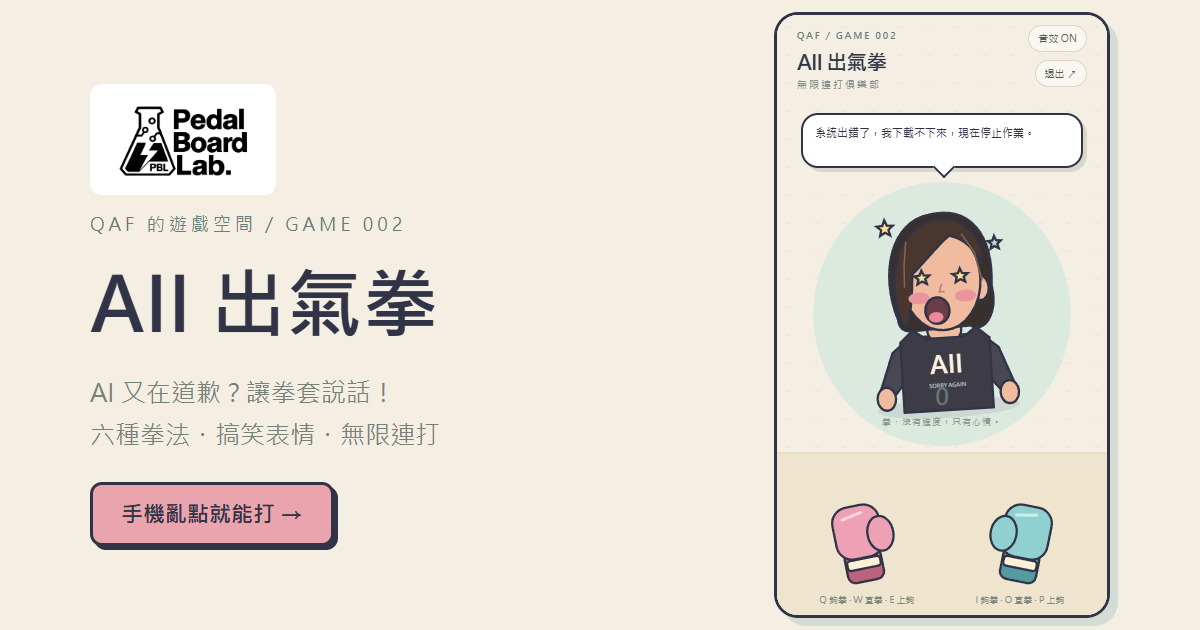
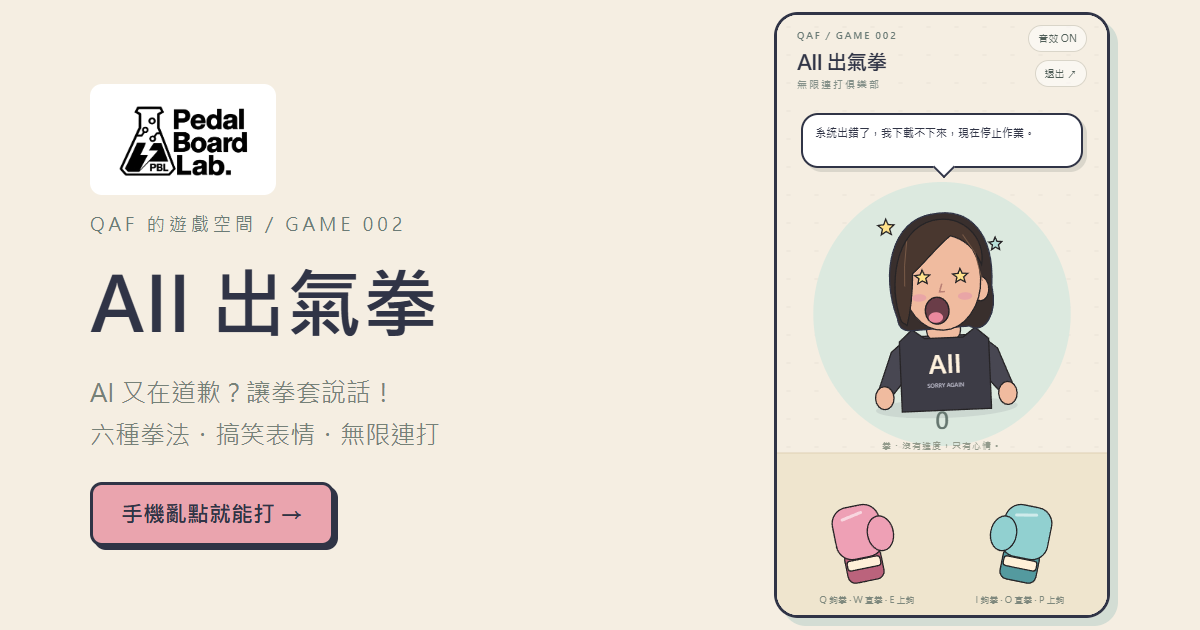
Refine AII front portrait using Japanese interior illustration line style, retain natural colors

Changed region(s): [[0.7092, 0.3317, 0.8633, 0.7238], [0.6783, 0.7841, 0.74, 0.9349], [0.8325, 0.7841, 0.8633, 0.9349]]

diff --git a/aii/aii.js b/aii/aii.js
@@ -12,13 +12,13 @@ $('start').onclick=()=>{playing=true;unlock();$('intro').style.display='none';sp
 window.addEventListener('keydown',e=>{if(e.code in keyMap){e.preventDefault();punch(keyMap[e.code])}});
 document.querySelectorAll('[data-punch]').forEach(button=>{button.addEventListener('pointerdown',e=>{e.preventDefault();try{button.setPointerCapture(e.pointerId)}catch{}const kind=Number(button.dataset.punch);punch(kind);if(timers.has(e.pointerId))clearInterval(timers.get(e.pointerId));timers.set(e.pointerId,setInterval(()=>punch(kind),95))});const end=e=>{clearInterval(timers.get(e.pointerId));timers.delete(e.pointerId)};button.addEventListener('pointerup',end);button.addEventListener('pointercancel',end);button.addEventListener('lostpointercapture',end)});
 function stop(){timers.forEach(clearInterval);timers.clear();if('speechSynthesis'in window)speechSynthesis.cancel();last=0}window.addEventListener('blur',stop);document.addEventListener('visibilitychange',()=>{if(document.hidden)stop()});$('exit').addEventListener('click',stop);window.addEventListener('pagehide',stop);
-function path(points,fill,stroke='#303446',line=3){ctx.beginPath();points.forEach((p,i)=>i?ctx.lineTo(...p):ctx.moveTo(...p));ctx.closePath();ctx.fillStyle=fill;ctx.fill();if(stroke){ctx.strokeStyle=stroke;ctx.lineWidth=line;ctx.stroke()}}
-function oval(x,y,rx,ry,fill,stroke='#303446',line=3){ctx.beginPath();ctx.ellipse(x,y,rx,ry,0,0,Math.PI*2);ctx.fillStyle=fill;ctx.fill();if(stroke){ctx.strokeStyle=stroke;ctx.lineWidth=line;ctx.stroke()}}
-function round(x,y,w,h,r,fill,stroke='#303446'){ctx.beginPath();ctx.roundRect(x,y,w,h,r);ctx.fillStyle=fill;ctx.fill();if(stroke){ctx.strokeStyle=stroke;ctx.lineWidth=3;ctx.stroke()}}
+function path(points,fill,stroke='#262426',line=1.7){ctx.beginPath();points.forEach((p,i)=>i?ctx.lineTo(...p):ctx.moveTo(...p));ctx.closePath();ctx.fillStyle=fill;ctx.fill();if(stroke){ctx.strokeStyle=stroke;ctx.lineWidth=line;ctx.stroke()}}
+function oval(x,y,rx,ry,fill,stroke='#262426',line=1.7){ctx.beginPath();ctx.ellipse(x,y,rx,ry,0,0,Math.PI*2);ctx.fillStyle=fill;ctx.fill();if(stroke){ctx.strokeStyle=stroke;ctx.lineWidth=line;ctx.stroke()}}
+function round(x,y,w,h,r,fill,stroke='#262426'){ctx.beginPath();ctx.roundRect(x,y,w,h,r);ctx.fillStyle=fill;ctx.fill();if(stroke){ctx.strokeStyle=stroke;ctx.lineWidth=1.7;ctx.stroke()}}
 function label(s,x,y,size,color='#303446'){ctx.font=`900 ${size}px system-ui`;ctx.textAlign='center';ctx.fillStyle=color;ctx.fillText(s,x,y)}
-function line(points,width=3,color='#303446'){ctx.beginPath();points.forEach((p,i)=>i?ctx.lineTo(...p):ctx.moveTo(...p));ctx.strokeStyle=color;ctx.lineWidth=width;ctx.lineCap='round';ctx.stroke()}
+function line(points,width=1.7,color='#262426'){ctx.beginPath();points.forEach((p,i)=>i?ctx.lineTo(...p):ctx.moveTo(...p));ctx.strokeStyle=color;ctx.lineWidth=width;ctx.lineCap='round';ctx.stroke()}
 function star(x,y,r,color='#ffe28b'){path(Array.from({length:10},(_,i)=>{const a=-Math.PI/2+i*Math.PI/5;return[x+Math.cos(a)*(i%2?r*.45:r),y+Math.sin(a)*(i%2?r*.45:r)]}),color)}
-function person(){const scale=Math.min(W/390,H/700)*.91,active=time-lastPunch<.65,kind=active?expression:-1;ctx.save();ctx.translate(W/2+offset.x,H*.465+offset.y);ctx.scale(scale,scale);ctx.rotate(active?Math.sin((time-lastPunch)*30)*(kind<3?.12:-.12):Math.sin(time*1.5)*.025);oval(0,148,92,13,'#30344618',null);path([[-46,54],[-69,73],[-89,126],[-72,132],[-44,99],[44,99],[72,132],[89,126],[69,73],[46,54]],'#484752');oval(-80,132,12,15,'#f0bb9f');oval(80,132,12,15,'#f0bb9f');round(-22,15,44,45,12,'#f0bb9f');path([[-41,45],[-58,60],[-58,151],[58,151],[58,60],[41,45],[25,57],[-25,57]],'#3d3c46');label('AII',0,103,32,'#fff2de');label('SORRY AGAIN',0,121,7,'#b9b8c7');ctx.beginPath();ctx.moveTo(-59,30);ctx.bezierCurveTo(-80,-32,-60,-98,-10,-104);ctx.bezierCurveTo(44,-113,71,-72,65,-8);ctx.bezierCurveTo(72,30,52,55,34,43);ctx.lineTo(-42,46);ctx.quadraticCurveTo(-58,46,-59,30);ctx.fillStyle='#392f2d';ctx.fill();ctx.strokeStyle='#303446';ctx.lineWidth=3;ctx.stroke();oval(-50,-5,11,16,'#f0bb9f');oval(50,-5,11,16,'#f0bb9f');oval(0,-19,51,66,'#f0bb9f');ctx.beginPath();ctx.moveTo(-54,34);ctx.bezierCurveTo(-70,-12,-58,-86,-8,-96);ctx.bezierCurveTo(32,-103,60,-70,53,-36);ctx.quadraticCurveTo(41,-68,14,-75);ctx.bezierCurveTo(-1,-65,-24,-38,-37,-28);ctx.quadraticCurveTo(-39,12,-47,39);ctx.closePath();ctx.fillStyle='#49372f';ctx.fill();ctx.stroke();line([[-43,-70],[-47,-39],[-48,-12]],2,'#85634d');line([[30,-76],[45,-52],[53,-15]],2,'#85634d');const squash=active?1+.1*Math.sin((time-lastPunch)*24):1;ctx.save();ctx.scale(squash,1/squash);oval(-29,4,13,8,'#e9959b',null);oval(29,4,13,8,'#e9959b',null);if(kind===0||kind===3){line([[-30,-29],[-18,-17],[-30,-12]]);line([[28,-29],[16,-17],[28,-12]])}else if(kind===1){for(const x of[-24,24]){line([[x-6,-30],[x+6,-17]]);line([[x+6,-30],[x-6,-17]])}}else if(kind===4){star(-24,-23,10,'#ffe28b');star(24,-23,10,'#ffe28b')}else if(kind===2||kind===5){oval(-24,-22,10,13,'#fff');oval(24,-22,10,13,'#fff');oval(-24,-18,3,5,'#303446',null);oval(24,-18,3,5,'#303446',null)}else{line([[-33,-34],[-21,-37]],2);line([[19,-37],[32,-34]],2);oval(-24,-23,8,9,'#fff');oval(24,-23,8,9,'#fff');oval(-23,-22,5,7,'#513a32',null);oval(25,-22,5,7,'#513a32',null);oval(-22,-26,2,2,'#fff',null);oval(26,-26,2,2,'#fff',null)}line([[0,-13],[-3,-3],[3,-3]],2,'#ba8075');if(kind>=0){oval(kind<3?7:-7,22,15,18,'#6a3d48');oval(kind<3?9:-9,31,9,7,'#eb889d',null);if(kind%3===2)oval(-38,17,6,10,'#91d5df','#303446',2)}else{line([[-15,17],[-6,23],[6,23],[15,17]],2);line([[-6,28],[6,28]],2,'#d38e87')}ctx.restore();if(active){star(-69,-89,11,'#ffe28b');star(72,-62,9,'#b7dfd8')}ctx.restore()}
+function person(){const scale=Math.min(W/390,H/700)*.91,active=time-lastPunch<.65,kind=active?expression:-1;ctx.save();ctx.translate(W/2+offset.x,H*.465+offset.y);ctx.scale(scale,scale);ctx.rotate(active?Math.sin((time-lastPunch)*30)*(kind<3?.12:-.12):Math.sin(time*1.5)*.025);oval(0,148,92,13,'#30344618',null);path([[-46,54],[-69,73],[-89,126],[-72,132],[-44,99],[44,99],[72,132],[89,126],[69,73],[46,54]],'#484752');oval(-80,132,12,15,'#f0bb9f');oval(80,132,12,15,'#f0bb9f');round(-22,15,44,45,12,'#f0bb9f');path([[-41,45],[-58,60],[-58,151],[58,151],[58,60],[41,45],[25,57],[-25,57]],'#3d3c46');label('AII',0,103,32,'#fff2de');label('SORRY AGAIN',0,121,7,'#b9b8c7');ctx.beginPath();ctx.moveTo(-59,30);ctx.bezierCurveTo(-80,-32,-60,-98,-10,-104);ctx.bezierCurveTo(44,-113,71,-72,65,-8);ctx.bezierCurveTo(72,30,52,55,34,43);ctx.lineTo(-42,46);ctx.quadraticCurveTo(-58,46,-59,30);ctx.fillStyle='#392f2d';ctx.fill();ctx.strokeStyle='#303446';ctx.lineWidth=1.7;ctx.stroke();oval(-50,-5,11,16,'#f0bb9f');oval(50,-5,11,16,'#f0bb9f');oval(0,-19,51,66,'#f0bb9f');ctx.beginPath();ctx.moveTo(-54,34);ctx.bezierCurveTo(-70,-12,-58,-86,-8,-96);ctx.bezierCurveTo(32,-103,60,-70,53,-36);ctx.quadraticCurveTo(41,-68,14,-75);ctx.bezierCurveTo(-1,-65,-24,-38,-37,-28);ctx.quadraticCurveTo(-39,12,-47,39);ctx.closePath();ctx.fillStyle='#49372f';ctx.fill();ctx.stroke();line([[-43,-70],[-47,-39],[-48,-12]],1,'#85634d');line([[30,-76],[45,-52],[53,-15]],1,'#85634d');const squash=active?1+.1*Math.sin((time-lastPunch)*24):1;ctx.save();ctx.scale(squash,1/squash);oval(-29,4,9,5,'#e9a5a6',null);oval(29,4,9,5,'#e9a5a6',null);if(kind===0||kind===3){line([[-30,-29],[-18,-17],[-30,-12]]);line([[28,-29],[16,-17],[28,-12]])}else if(kind===1){for(const x of[-24,24]){line([[x-6,-30],[x+6,-17]]);line([[x+6,-30],[x-6,-17]])}}else if(kind===4){star(-24,-23,10,'#ffe28b');star(24,-23,10,'#ffe28b')}else if(kind===2||kind===5){oval(-24,-22,10,13,'#fff');oval(24,-22,10,13,'#fff');oval(-24,-18,3,5,'#303446',null);oval(24,-18,3,5,'#303446',null)}else{line([[-33,-34],[-21,-37]],2);line([[19,-37],[32,-34]],2);oval(-24,-23,3,4.5,'#262426',null);oval(24,-23,3,4.5,'#262426',null)}line([[0,-13],[-3,-3],[3,-3]],2,'#ba8075');if(kind>=0){oval(kind<3?7:-7,22,15,18,'#6a3d48');oval(kind<3?9:-9,31,9,7,'#eb889d',null);if(kind%3===2)oval(-38,17,6,10,'#91d5df','#303446',2)}else{ctx.beginPath();ctx.moveTo(-10,18);ctx.quadraticCurveTo(0,27,11,18);ctx.strokeStyle='#262426';ctx.lineWidth=1.7;ctx.stroke()}ctx.restore();if(active){star(-69,-89,11,'#ffe28b');star(72,-62,9,'#b7dfd8')}ctx.restore()}
 function glove(x,y,scale,left,angle=0){ctx.save();ctx.translate(x,y);ctx.rotate(angle);ctx.scale(scale,scale);round(-24,33,48,42,10,left?'#bb637c':'#549a9f');round(-31,-25,62,69,21,left?'#eea0b5':'#91d0d0');oval(left?29:-29,17,17,23,left?'#eea0b5':'#91d0d0');line([[-17,-10],[9,-15]],4,'#ffffff90');round(-22,45,44,13,4,'#fff0d8');ctx.restore()}
 function draw(){ctx.fillStyle='#f5eee2';ctx.fillRect(0,0,W,H);ctx.strokeStyle='#e8e2d7';ctx.lineWidth=1;for(let x=10;x<W;x+=28)for(let y=12;y<H;y+=28){ctx.beginPath();ctx.moveTo(x,y);ctx.lineTo(x+3,y);ctx.stroke()}const y=H*.465;oval(W/2,y+20,W*.39,H*.22,'#dce9df',null);ctx.fillStyle='#efe5ce';ctx.fillRect(0,H*.73,W,H*.27);line([[0,H*.73],[W,H*.73]],1,'#ded0b4');person();glove(W*.24,H*.85,Math.min(W/390,H/700)*.9,true,-.2);glove(W*.76,H*.85,Math.min(W/390,H/700)*.9,false,.2);for(const f of fx){const side=f.kind<3?-1:1,type=f.kind%3,t=f.age/.25,travel=Math.min(1,t*2),back=Math.max(0,(t-.45)/.55);const contactX=W/2+side*(type===1?12:38),contactY=y+(type===2?30:0);const startX=type===0?W/2+side*W*.65:W/2+side*W*.26,startY=type===2?H*.96:H*.82;const progress=travel*(1-back);const x=startX+(contactX-startX)*progress,gy=startY+(contactY-startY)*progress;ctx.globalAlpha=Math.max(0,1-f.age/.3);if(f.age<.25)glove(x,gy,Math.min(W/390,H/700)*(1+progress*.4),side<0,side*(type===0?-.8:type===2?.2:-.2));if(f.age<.4){const ix=contactX+Math.sin(f.seed*30)*13,iy=contactY-10;star(ix,iy,24+(1-f.age/.4)*15,f.id%2?'#ffe28b':'#ffbeca');label(['啪！','咚！','砰！'][type],ix,iy+7,18);ctx.strokeStyle='#30344660';ctx.lineWidth=2;for(let i=0;i<4;i++){ctx.beginPath();ctx.moveTo(x+side*(35+i*5),gy+20+i*12);ctx.lineTo(x+side*(70+i*5),gy+40+i*12);ctx.stroke()}}ctx.globalAlpha=1}if(!playing)label('AII',W/2,y,50)}
 function frame(ms){const dt=last?Math.min((ms-last)/1000,.05):0;last=ms;time+=dt;offset.x*=Math.exp(-dt*17);offset.y*=Math.exp(-dt*17);fx.forEach(f=>f.age+=dt);fx=fx.filter(f=>f.age<.4);if(playing&&time>=nextQuote&&time-lastPunch>4){speakQuote()}draw();requestAnimationFrame(frame)}$('speech').textContent=quotes[0];requestAnimationFrame(frame);

diff --git a/aii/aii.css b/aii/aii.css
@@ -1,1 +1,1 @@
-*{box-sizing:border-box}html,body{margin:0;width:100%;height:100%;overflow:hidden;position:fixed;inset:0;overscroll-behavior:none;background:#e5ded4;color:#303446;font:14px system-ui,"Microsoft JhengHei",sans-serif;touch-action:none;user-select:none}main{position:relative;width:100%;max-width:480px;height:100svh;margin:auto;background:#f5eee2;overflow:hidden}canvas{display:block;width:100%;height:100%}header{position:absolute;top:max(15px,env(safe-area-inset-top));left:20px;right:20px;display:flex;justify-content:space-between;gap:6px;pointer-events:none}.tag{font-size:9px;letter-spacing:2px;font-weight:800;color:#6b7b76}h1{font-size:24px;margin:6px 0;line-height:1.25;letter-spacing:-1px}h1 span{display:block;font-size:10px;letter-spacing:2px;font-weight:500;margin-top:4px;color:#85918a}nav{display:flex;flex-direction:column;align-items:flex-end;gap:8px;pointer-events:auto}nav button,nav a{font:inherit;font-size:10px;border:1px solid #d9d5c9;padding:6px 9px;border-radius:16px;background:#fff8;color:#505e58;text-decoration:none}button{touch-action:none;cursor:pointer;-webkit-tap-highlight-color:transparent}#speech{position:absolute;top:112px;left:24px;right:24px;background:#fff;border:2px solid #303446;border-radius:17px;padding:12px 15px;font-size:12px;line-height:1.65;box-shadow:4px 4px 0 #dad6cb;min-height:66px;pointer-events:none}#speech:after{content:"";position:absolute;bottom:-9px;left:48%;width:14px;height:14px;background:#fff;border-right:2px solid #303446;border-bottom:2px solid #303446;transform:rotate(45deg)}.counter{position:absolute;bottom:31%;left:0;right:0;text-align:center;pointer-events:none}.counter b{font-size:23px;display:block;font-weight:900;color:#65766f}.counter span{font-size:9px;color:#929a8b;letter-spacing:1px}#pads{position:absolute;inset:68% 0 32px;display:grid;grid-template-columns:repeat(3,1fr);grid-template-rows:repeat(2,1fr)}#pads button{border:0;background:transparent;outline-offset:-5px}#pads button:focus-visible{outline:2px dashed #85998d}#pads button:active{background:#78948912}.guide{position:absolute;bottom:max(10px,env(safe-area-inset-bottom));left:12px;right:12px;display:flex;justify-content:space-around;pointer-events:none;color:#7e887d;font-size:9px}#intro{position:absolute;inset:0;display:grid;place-items:center;background:#30344665;backdrop-filter:blur(5px);padding:20px}article{width:100%;max-width:350px;background:#fffaf1;border:2px solid #303446;border-radius:23px;box-shadow:7px 7px 0 #303446;padding:24px;text-align:center}article img{display:block;object-fit:contain;margin:0 auto 12px;background:#fff;border-radius:10px;padding:5px}article h2{font-size:32px;margin:12px 0}article p{font-size:13px;line-height:1.7;color:#768178}.keys{display:grid;grid-template-columns:repeat(3,1fr);gap:7px}.keys span{font-size:10px;background:#eeeade;border-radius:7px;padding:8px 2px}article p.help{font-size:11px}#start{width:100%;padding:14px;border:2px solid #303446;border-radius:12px;background:#eaa4ae;color:#303446;font-size:15px;font-weight:900;box-shadow:0 4px 0 #303446}@media(max-height:650px){header{top:10px}h1{font-size:21px}#speech{top:98px;padding:9px 12px;font-size:11px;min-height:55px}article{padding:16px}article img{height:65px;width:110px;margin-bottom:6px}article h2{font-size:27px;margin:8px 0}article p{font-size:11px;margin:8px 0}.keys span{padding:6px 1px}#start{padding:11px}}
+*{box-sizing:border-box}html,body{margin:0;width:100%;height:100%;overflow:hidden;position:fixed;inset:0;overscroll-behavior:none;background:#e5ded4;color:#303446;font:14px system-ui,"Microsoft JhengHei",sans-serif;touch-action:none;user-select:none}main{position:relative;width:100%;max-width:480px;height:100svh;margin:auto;background:#f5eee2;overflow:hidden}canvas{display:block;width:100%;height:100%}header{position:absolute;top:max(15px,env(safe-area-inset-top));left:20px;right:20px;display:flex;justify-content:space-between;gap:6px;pointer-events:none}.tag{font-size:9px;letter-spacing:2px;font-weight:800;color:#6b7b76}h1{font-size:24px;margin:6px 0;line-height:1.25;letter-spacing:-1px}h1 span{display:block;font-size:10px;letter-spacing:2px;font-weight:500;margin-top:4px;color:#85918a}nav{display:flex;flex-direction:column;align-items:flex-end;gap:8px;pointer-events:auto}nav button,nav a{font:inherit;font-size:10px;border:1px solid #d9d5c9;padding:6px 9px;border-radius:16px;background:#fff8;color:#505e58;text-decoration:none}button{touch-action:none;cursor:pointer;-webkit-tap-highlight-color:transparent}#speech{position:absolute;top:112px;left:24px;right:24px;background:#fff;border:2px solid #303446;border-radius:17px;padding:12px 15px;font-size:12px;line-height:1.65;box-shadow:4px 4px 0 #dad6cb;min-height:66px;pointer-events:none}#speech:after{content:"";position:absolute;bottom:-9px;left:48%;width:14px;height:14px;background:#fff;border-right:2px solid #303446;border-bottom:2px solid #303446;transform:rotate(45deg)}.counter{position:absolute;bottom:27%;left:0;right:0;text-align:center;pointer-events:none}.counter b{font-size:23px;display:block;font-weight:900;color:#65766f}.counter span{font-size:9px;color:#929a8b;letter-spacing:1px}#pads{position:absolute;inset:68% 0 32px;display:grid;grid-template-columns:repeat(3,1fr);grid-template-rows:repeat(2,1fr)}#pads button{border:0;background:transparent;outline-offset:-5px}#pads button:focus-visible{outline:2px dashed #85998d}#pads button:active{background:#78948912}.guide{position:absolute;bottom:max(10px,env(safe-area-inset-bottom));left:12px;right:12px;display:flex;justify-content:space-around;pointer-events:none;color:#7e887d;font-size:9px}#intro{position:absolute;inset:0;display:grid;place-items:center;background:#30344665;backdrop-filter:blur(5px);padding:20px}article{width:100%;max-width:350px;background:#fffaf1;border:2px solid #303446;border-radius:23px;box-shadow:7px 7px 0 #303446;padding:24px;text-align:center}article img{display:block;object-fit:contain;margin:0 auto 12px;background:#fff;border-radius:10px;padding:5px}article h2{font-size:32px;margin:12px 0}article p{font-size:13px;line-height:1.7;color:#768178}.keys{display:grid;grid-template-columns:repeat(3,1fr);gap:7px}.keys span{font-size:10px;background:#eeeade;border-radius:7px;padding:8px 2px}article p.help{font-size:11px}#start{width:100%;padding:14px;border:2px solid #303446;border-radius:12px;background:#eaa4ae;color:#303446;font-size:15px;font-weight:900;box-shadow:0 4px 0 #303446}@media(max-height:650px){header{top:10px}h1{font-size:21px}#speech{top:98px;padding:9px 12px;font-size:11px;min-height:55px}article{padding:16px}article img{height:65px;width:110px;margin-bottom:6px}article h2{font-size:27px;margin:8px 0}article p{font-size:11px;margin:8px 0}.keys span{padding:6px 1px}#start{padding:11px}}

diff --git a/aii/index.html b/aii/index.html
@@ -1,1 +1,1 @@
-<!doctype html><html lang="zh-Hant"><head><meta charset="utf-8"><meta name="viewport" content="width=device-width,initial-scale=1,maximum-scale=1,user-scalable=no,viewport-fit=cover"><meta name="theme-color" content="#f5eee2"><title>AII 出氣拳｜QAF 的遊戲空間</title><meta property="og:title" content="AII 出氣拳｜QAF 的遊戲空間"><meta property="og:description" content="六種拳法、搞笑表情、無限連打。AI 又在道歉？讓拳套說話！"><meta property="og:type" content="website"><meta property="og:url" content="https://qafstudio2.github.io/qaf-game/aii/"><meta property="og:image" content="https://qafstudio2.github.io/qaf-game/aii/share.png"><link rel="stylesheet" href="aii.css"></head><body><main><canvas id="stage" aria-label="可愛短髮 AII 角色與拳套"></canvas><header><div><span class="tag">QAF / GAME 002</span><h1>AII 出氣拳<span>無限連打俱樂部</span></h1></div><nav><button id="sound" aria-label="切換音效">音效 ON</button><a href="../" id="exit">退出 ↗</a></nav></header><aside id="speech" aria-live="polite"></aside><div class="counter"><b id="hits">0</b><span>拳・沒有進度，只有心情。</span></div><div id="pads" aria-label="六種拳法的觸控區"><button data-punch="0" aria-label="左鉤拳 Q"></button><button data-punch="1" aria-label="左直拳 W"></button><button data-punch="2" aria-label="左上鉤拳 E"></button><button data-punch="3" aria-label="右鉤拳 I"></button><button data-punch="4" aria-label="右直拳 O"></button><button data-punch="5" aria-label="右上鉤拳 P"></button></div><div class="guide"><span>Q 鉤拳 · W 直拳 · E 上鉤</span><span>I 鉤拳 · O 直拳 · P 上鉤</span></div><section id="intro"><article><img src="../lab-logo.png" alt="地下樂手拼盤實驗室" width="145" height="90"><span class="tag">SORRY. AGAIN.</span><h2>讓拳套說話。</h2><p>短髮 AII 又開始道歉了。<br>六種拳法，六種搞笑反應。<br>按多快就打多快，沒有結局。</p><div class="keys"><span>Q 左鉤</span><span>W 左直</span><span>E 左上鉤</span><span>I 右鉤</span><span>O 右直</span><span>P 右上鉤</span></div><p class="help">手機：下方隱藏六宮格，亂點就能打。<br>長按連發，也支援多指同時出拳。</p><button id="start">開始出氣 →</button></article></section></main><script src="aii.js"></script></body></html>
+<!doctype html><html lang="zh-Hant"><head><meta charset="utf-8"><meta name="viewport" content="width=device-width,initial-scale=1,maximum-scale=1,user-scalable=no,viewport-fit=cover"><meta name="theme-color" content="#f5eee2"><title>AII 出氣拳｜QAF 的遊戲空間</title><meta property="og:title" content="AII 出氣拳｜QAF 的遊戲空間"><meta property="og:description" content="六種拳法、搞笑表情、無限連打。AI 又在道歉？讓拳套說話！"><meta property="og:type" content="website"><meta property="og:url" content="https://qafstudio2.github.io/qaf-game/aii/"><meta property="og:image" content="https://qafstudio2.github.io/qaf-game/aii/share.png"><link rel="stylesheet" href="aii.css?v=line-2"></head><body><main><canvas id="stage" aria-label="可愛短髮 AII 角色與拳套"></canvas><header><div><span class="tag">QAF / GAME 002</span><h1>AII 出氣拳<span>無限連打俱樂部</span></h1></div><nav><button id="sound" aria-label="切換音效">音效 ON</button><a href="../" id="exit">退出 ↗</a></nav></header><aside id="speech" aria-live="polite"></aside><div class="counter"><b id="hits">0</b><span>拳・沒有進度，只有心情。</span></div><div id="pads" aria-label="六種拳法的觸控區"><button data-punch="0" aria-label="左鉤拳 Q"></button><button data-punch="1" aria-label="左直拳 W"></button><button data-punch="2" aria-label="左上鉤拳 E"></button><button data-punch="3" aria-label="右鉤拳 I"></button><button data-punch="4" aria-label="右直拳 O"></button><button data-punch="5" aria-label="右上鉤拳 P"></button></div><div class="guide"><span>Q 鉤拳 · W 直拳 · E 上鉤</span><span>I 鉤拳 · O 直拳 · P 上鉤</span></div><section id="intro"><article><img src="../lab-logo.png" alt="地下樂手拼盤實驗室" width="145" height="90"><span class="tag">SORRY. AGAIN.</span><h2>讓拳套說話。</h2><p>短髮 AII 又開始道歉了。<br>六種拳法，六種搞笑反應。<br>按多快就打多快，沒有結局。</p><div class="keys"><span>Q 左鉤</span><span>W 左直</span><span>E 左上鉤</span><span>I 右鉤</span><span>O 右直</span><span>P 右上鉤</span></div><p class="help">手機：下方隱藏六宮格，亂點就能打。<br>長按連發，也支援多指同時出拳。</p><button id="start">開始出氣 →</button></article></section></main><script src="aii.js?v=line-2"></script></body></html>
